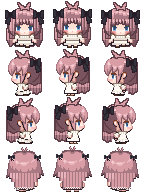
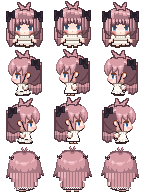
ちびキャラ：こすいのリボンを小さく
Claude-Session: https://claude.ai/code/session_017gxvkc2TW4xYgG5MuSL3N1

diff --git a/files.js b/files.js
@@ -2,7 +2,7 @@
 // マップなどを足したら scripts に1行足す（順番どおりに読み込む。main.js は最後）。
 // 版の番号 v は tools/stamp.py が書き換える。
 window.FILES = {
-  v: '20261127060459',
+  v: '20261127060605',
   scripts: [
     'engine/core.js',
     'engine/world.js',

diff --git a/tools/sprites/make_chibi.py b/tools/sprites/make_chibi.py
@@ -484,10 +484,11 @@ def extras(a, c, side):
     if c.get('bows'):
         for s in ((-1, 1) if side == 'down' else (1,)):
             cx, cy = (s * 14, 13) if side == 'down' else (11, 13)
-            a.part([('p', [(cx + 0.4 * s, cy + 1), (cx + s * 2.4, cy + 8.6), (cx + s * 4.2, cy + 8), (cx + s * 1.6, cy + 1)])], c['ribbon1'], c['ribbon2'], line=c['line'], lw=0.6)   # 垂れた帯
-            a.part([('p', [(cx, cy), (cx - 4.4, cy - 3.2), (cx - 4.4, cy + 3)]), ('p', [(cx, cy), (cx + 4.4, cy - 3.2), (cx + 4.4, cy + 3)])],
+            k = 0.7   # リボンの大きさ
+            a.part([('p', [(cx + 0.4 * s, cy + 1), (cx + s * 2.4 * k, cy + 8.6 * k), (cx + s * 4.2 * k, cy + 8 * k), (cx + s * 1.6 * k, cy + 1)])], c['ribbon1'], c['ribbon2'], line=c['line'], lw=0.6)   # 垂れた帯
+            a.part([('p', [(cx, cy), (cx - 4.4 * k, cy - 3.2 * k), (cx - 4.4 * k, cy + 3 * k)]), ('p', [(cx, cy), (cx + 4.4 * k, cy - 3.2 * k), (cx + 4.4 * k, cy + 3 * k)])],
                    c['ribbon1'], c['ribbon2'], line=c['line'], lw=0.6)   # 左右の輪
-            a.part([('e', cx - 1.4, cy - 1.4, cx + 1.4, cy + 1.4)], c['ribbon2'], c['ribbon2'], line=c['line'], lw=0.5)   # 結び目
+            a.part([('e', cx - 1.4 * k, cy - 1.4 * k, cx + 1.4 * k, cy + 1.4 * k)], c['ribbon2'], c['ribbon2'], line=c['line'], lw=0.5)   # 結び目
     if c.get('mouth') == 'open' and side in MOUTH_OPEN and isinstance(a, Pixel):
         x0, y0, rows = MOUTH_OPEN[side]
         a.dots(x0, y0, rows, {'M': c.get('mouthDark', (122, 44, 52)), 'T': c.get('mouthTongue', (232, 120, 128))})
@@ -838,8 +839,8 @@ def back_frame(c, step):
         if c.get('ahoge'):
             put(-4, o + 2, ['..E...E..', '.EM..EM..', '.EME.EME.', '..EMEME..'])
         if c.get('bows'):
-            for x0 in (-16, 10):
-                put(x0, 10 + o, ['rr...rr', 'rRrkrRr', 'rRrkrRr', 'rr.k.rr', '...kk..', '...k.k.'])
+            for x0 in (-15, 11):
+                put(x0, 11 + o, ['r...r', 'rrkrr', 'r.k.r', '..kk.'])
         if c.get('hairclip', True):  # リボン（正面では右上。後ろからは左上に見える）
             put(-10, 8 + o, ['.r.r', 'rRRr', '.r.r'])
     return im
